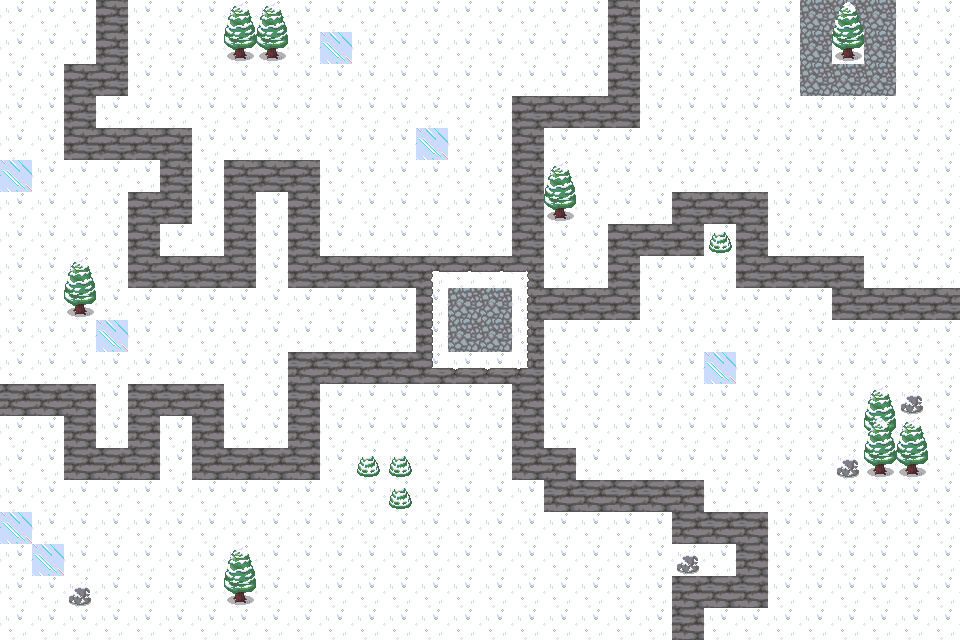
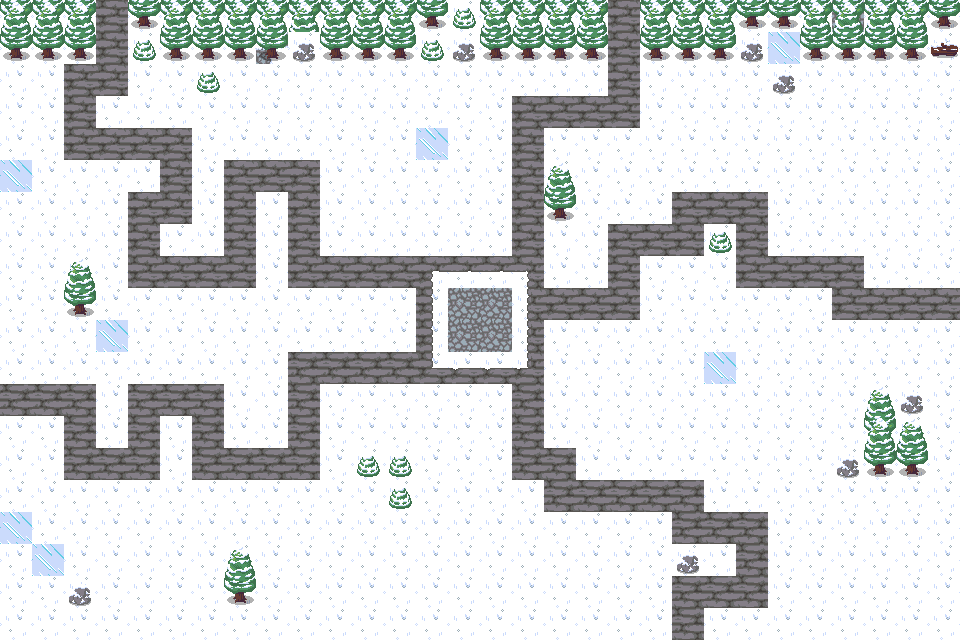
Adjusted health bar position and width relative to the scale. Adjusted map so that towers aren't cut off and changed map array to match new adjustments.

Changed region(s): [[0.0, 0.0, 1.0, 0.1562], [0.1875, 0.125, 0.25, 0.1562]]

diff --git a/Level/dist/levelMapProperties.dev.js b/Level/dist/levelMapProperties.dev.js
@@ -6,27 +6,234 @@ var levelOneGrid = {
   "tilePixelLength": 40,
   "tileBorderPixelWeight": 1,
   "mapArray": [[2, 2, 2, 2, 2, 2, 2, 2, 2, 2, 2, 2, 2, 2, 2], [1, 1, 1, 1, 1, 1, 1, 1, 1, 1, 1, 1, 1, 1, 1], [1, 2, 0, 0, 0, 0, 1, 1, 1, 1, 1, 1, 1, 1, 1], [1, 1, 0, 1, 1, 0, 1, 1, 1, 2, 1, 1, 2, 2, 2], [1, 1, 0, 1, 1, 0, 1, 1, 1, 0, 0, 0, 0, 0, 0], [0, 0, 0, 1, 1, 0, 1, 1, 1, 0, 1, 1, 2, 2, 2], [1, 1, 1, 1, 1, 0, 0, 0, 0, 0, 1, 1, 1, 1, 1], [1, 2, 1, 1, 1, 1, 1, 1, 1, 1, 1, 1, 1, 1, 1], [1, 1, 1, 1, 1, 1, 1, 1, 1, 1, 1, 1, 1, 1, 1], [2, 2, 2, 1, 1, 1, 2, 2, 2, 1, 1, 1, 2, 2, 1]],
-  "startTile": {
+  "startTiles": [{
     "row": 5,
-    "column": 0
-  },
-  "startDirection": "right",
-  "destinationTile": {
+    "column": 0,
+    "direction": ["right"]
+  }],
+  "destinationTiles": {
     "row": 4,
     "column": 14
   },
-  "tileTurns": [[5, 2], [2, 2], [2, 5], [6, 5], [6, 9], [4, 9]]
+  "tileTurns": [{
+    "row": 5,
+    "column": 2,
+    "directions": ["up"]
+  }, {
+    "row": 2,
+    "column": 2,
+    "directions": ["right"]
+  }, {
+    "row": 2,
+    "column": 5,
+    "directions": ["down"]
+  }, {
+    "row": 6,
+    "column": 5,
+    "directions": ["right"]
+  }, {
+    "row": 6,
+    "column": 9,
+    "directions": ["up"]
+  }, {
+    "row": 4,
+    "column": 9,
+    "directions": ["right"]
+  }]
 }; // snow map
 
-levelTwoGrid = {
+var levelTwoGrid = {
   "tileRows": 20,
   "tileColumns": 30,
-  "tilePixelLength": 30,
+  "tilePixelLength": 32,
   "tileBorderPixelWeight": 1,
-  "mapArray": [[0, 0, 0, 1, 0, 0, 0, 2, 2, 0, 0, 0, 0, 0, 0, 0, 0, 0, 0, 1, 0, 0, 0, 0, 0, 2, 2, 2, 0, 0], [0, 0, 0, 1, 0, 0, 0, 2, 2, 0, 2, 0, 0, 0, 0, 0, 0, 0, 0, 1, 0, 0, 0, 0, 0, 2, 2, 2, 0, 0], [0, 0, 1, 1, 0, 0, 0, 0, 0, 0, 0, 0, 0, 0, 0, 0, 0, 0, 0, 1, 0, 0, 0, 0, 0, 2, 2, 2, 0, 0], [0, 0, 1, 0, 0, 0, 0, 0, 0, 0, 0, 0, 0, 0, 0, 0, 1, 1, 1, 1, 0, 0, 0, 0, 0, 0, 0, 0, 0, 0], [0, 0, 1, 1, 1, 1, 0, 0, 0, 0, 0, 0, 0, 2, 0, 0, 1, 0, 0, 0, 0, 0, 0, 0, 0, 0, 0, 0, 0, 0], [2, 0, 0, 0, 0, 1, 0, 1, 1, 1, 0, 0, 0, 0, 0, 0, 1, 2, 0, 0, 0, 0, 0, 0, 0, 0, 0, 0, 0, 0], [0, 0, 0, 0, 1, 1, 0, 1, 0, 1, 0, 0, 0, 0, 0, 0, 1, 2, 0, 0, 0, 1, 1, 1, 0, 0, 0, 0, 0, 0], [0, 0, 0, 0, 1, 0, 0, 1, 0, 1, 0, 0, 0, 0, 0, 0, 1, 0, 0, 1, 1, 1, 2, 1, 0, 0, 0, 0, 0, 0], [0, 0, 2, 0, 1, 1, 1, 1, 0, 1, 1, 1, 1, 1, 1, 1, 1, 0, 0, 1, 0, 0, 0, 1, 1, 1, 1, 0, 0, 0], [0, 0, 2, 0, 0, 0, 0, 0, 0, 0, 0, 0, 0, 1, 1, 1, 1, 1, 1, 1, 0, 0, 0, 0, 0, 0, 1, 1, 1, 1], [0, 0, 0, 2, 0, 0, 0, 0, 0, 0, 0, 0, 0, 1, 1, 1, 1, 0, 0, 0, 0, 0, 0, 0, 0, 0, 0, 0, 0, 0], [0, 0, 0, 0, 0, 0, 0, 0, 0, 1, 1, 1, 1, 1, 1, 1, 1, 0, 0, 0, 0, 0, 2, 0, 0, 0, 0, 0, 0, 0], [1, 1, 1, 0, 1, 1, 1, 0, 0, 1, 0, 0, 0, 0, 0, 0, 1, 0, 0, 0, 0, 0, 0, 0, 0, 0, 0, 2, 2, 0], [0, 0, 1, 0, 1, 0, 1, 0, 0, 1, 0, 0, 0, 0, 0, 0, 1, 0, 0, 0, 0, 0, 0, 0, 0, 0, 0, 2, 2, 0], [0, 0, 1, 1, 1, 0, 1, 1, 1, 1, 0, 2, 2, 0, 0, 0, 1, 1, 0, 0, 0, 0, 0, 0, 0, 0, 2, 2, 2, 0], [0, 0, 0, 0, 0, 0, 0, 0, 0, 0, 0, 0, 2, 0, 0, 0, 0, 1, 1, 1, 1, 1, 0, 0, 0, 0, 0, 0, 0, 0], [2, 0, 0, 0, 0, 0, 0, 0, 0, 0, 0, 0, 0, 0, 0, 0, 0, 0, 0, 0, 0, 1, 1, 1, 0, 0, 0, 0, 0, 0], [0, 2, 0, 0, 0, 0, 0, 2, 0, 0, 0, 0, 0, 0, 0, 0, 0, 0, 0, 0, 0, 2, 0, 1, 0, 0, 0, 0, 0, 0], [0, 0, 2, 0, 0, 0, 0, 2, 0, 0, 0, 0, 0, 0, 0, 0, 0, 0, 0, 0, 0, 1, 1, 1, 0, 0, 0, 0, 0, 0], [0, 0, 0, 0, 0, 0, 0, 0, 0, 0, 0, 0, 0, 0, 0, 0, 0, 0, 0, 0, 0, 1, 0, 0, 0, 0, 0, 0, 0, 0]]
+  "mapArray": [[2, 2, 2, 0, 2, 2, 2, 2, 2, 2, 2, 2, 2, 2, 2, 2, 2, 2, 2, 0, 2, 2, 2, 2, 2, 2, 2, 2, 2, 2], [2, 2, 2, 0, 2, 2, 2, 2, 2, 2, 2, 2, 2, 2, 2, 2, 2, 2, 2, 0, 2, 2, 2, 2, 2, 2, 2, 2, 2, 2], [1, 1, 0, 0, 1, 1, 2, 1, 1, 1, 1, 1, 1, 1, 1, 1, 1, 1, 1, 0, 1, 1, 1, 1, 2, 1, 1, 1, 1, 1], [1, 1, 0, 1, 1, 1, 1, 1, 1, 1, 1, 1, 1, 1, 1, 1, 0, 0, 0, 0, 1, 1, 1, 1, 1, 1, 1, 1, 1, 1], [1, 1, 0, 0, 0, 0, 1, 1, 1, 1, 1, 1, 1, 2, 1, 1, 0, 1, 1, 1, 1, 1, 1, 1, 1, 1, 1, 1, 1, 1], [2, 1, 1, 1, 1, 0, 1, 0, 0, 0, 1, 1, 1, 1, 1, 1, 0, 2, 1, 1, 1, 1, 1, 1, 1, 1, 1, 1, 1, 1], [1, 1, 1, 1, 0, 0, 1, 0, 1, 0, 1, 1, 1, 1, 1, 1, 0, 2, 1, 1, 1, 0, 0, 0, 1, 1, 1, 1, 1, 1], [1, 1, 1, 1, 0, 1, 1, 0, 1, 0, 1, 1, 1, 1, 1, 1, 0, 1, 1, 0, 0, 0, 2, 0, 1, 1, 1, 1, 1, 1], [1, 1, 2, 1, 0, 0, 0, 0, 1, 0, 0, 0, 0, 0, 0, 0, 0, 1, 1, 0, 1, 1, 1, 0, 0, 0, 0, 1, 1, 1], [1, 1, 2, 1, 1, 1, 1, 1, 1, 1, 1, 1, 1, 0, 0, 0, 0, 0, 0, 0, 1, 1, 1, 1, 1, 1, 0, 0, 0, 0], [1, 1, 1, 2, 1, 1, 1, 1, 1, 1, 1, 1, 1, 0, 0, 0, 0, 1, 1, 1, 1, 1, 1, 1, 1, 1, 1, 1, 1, 1], [1, 1, 1, 1, 1, 1, 1, 1, 1, 0, 0, 0, 0, 0, 0, 0, 0, 1, 1, 1, 1, 1, 2, 1, 1, 1, 1, 1, 1, 1], [0, 0, 0, 1, 0, 0, 0, 1, 1, 0, 1, 1, 1, 1, 1, 1, 0, 1, 1, 1, 1, 1, 1, 1, 1, 1, 1, 2, 2, 1], [1, 1, 0, 1, 0, 1, 0, 1, 1, 0, 1, 1, 1, 1, 1, 1, 0, 1, 1, 1, 1, 1, 1, 1, 1, 1, 1, 2, 2, 1], [1, 1, 0, 0, 0, 1, 0, 0, 0, 0, 1, 2, 2, 1, 1, 1, 0, 0, 1, 1, 1, 1, 1, 1, 1, 1, 2, 2, 2, 1], [1, 1, 1, 1, 1, 1, 1, 1, 1, 1, 1, 1, 2, 1, 1, 1, 1, 0, 0, 0, 0, 0, 1, 1, 1, 1, 1, 1, 1, 1], [2, 1, 1, 1, 1, 1, 1, 1, 1, 1, 1, 1, 1, 1, 1, 1, 1, 1, 1, 1, 1, 0, 0, 0, 1, 1, 1, 1, 1, 1], [1, 2, 1, 1, 1, 1, 1, 2, 1, 1, 1, 1, 1, 1, 1, 1, 1, 1, 1, 1, 1, 2, 1, 0, 1, 1, 1, 1, 1, 1], [1, 1, 2, 1, 1, 1, 1, 2, 1, 1, 1, 1, 1, 1, 1, 1, 1, 1, 1, 1, 1, 0, 0, 0, 1, 1, 1, 1, 1, 1], [1, 1, 1, 1, 1, 1, 1, 1, 1, 1, 1, 1, 1, 1, 1, 1, 1, 1, 1, 1, 1, 0, 1, 1, 1, 1, 1, 1, 1, 1]],
+  "startTiles": [// Top Edge of Map
+  {
+    "row": 0,
+    "column": 3,
+    "direction": ["down"]
+  }, {
+    "row": 0,
+    "column": 20,
+    "direction": ["down"]
+  }, // Right Edge of Map
+  {
+    "row": 9,
+    "column": 29,
+    "direction": ["left"]
+  }, // Left Edge of Map
+  {
+    "row": 12,
+    "column": 0,
+    "direction": ["right"]
+  }, // Bottom Edge of Map
+  {
+    "row": 19,
+    "column": 21,
+    "direction": ["up"]
+  }],
+  "destinationTiles": {
+    "row": 9.5,
+    "column": 15.5
+  },
+  "tileTurns": [// Starting from Beginning of Diagonally Left-Up Path
+  {
+    "row": 2,
+    "column": 3,
+    "directions": ["left"]
+  }, {
+    "row": 2,
+    "column": 2,
+    "directions": ["down"]
+  }, {
+    "row": 4,
+    "column": 2,
+    "directions": ["right"]
+  }, {
+    "row": 4,
+    "column": 5,
+    "directions": ["down"]
+  }, {
+    "row": 6,
+    "column": 5,
+    "directions": ["left"]
+  }, {
+    "row": 6,
+    "column": 4,
+    "directions": ["down"]
+  }, {
+    "row": 8,
+    "column": 4,
+    "directions": ["right"]
+  }, {
+    "row": 8,
+    "column": 7,
+    "directions": ["up"]
+  }, {
+    "row": 5,
+    "column": 7,
+    "directions": ["right"]
+  }, {
+    "row": 5,
+    "column": 9,
+    "directions": ["down"]
+  }, {
+    "row": 8,
+    "column": 9,
+    "directions": ["right"]
+  }, // Starting from Beginning of Up Path
+  {
+    "row": 3,
+    "column": 19,
+    "directions": ["left"]
+  }, {
+    "row": 3,
+    "column": 16,
+    "directions": ["down"]
+  }, // Starting from Beginning of Right Path
+  {
+    "row": 9,
+    "column": 26,
+    "directions": ["up"]
+  }, {
+    "row": 8,
+    "column": 26,
+    "directions": ["left"]
+  }, {
+    "row": 8,
+    "column": 23,
+    "directions": ["up"]
+  }, {
+    "row": 6,
+    "column": 23,
+    "directions": ["left"]
+  }, {
+    "row": 6,
+    "column": 21,
+    "directions": ["down"]
+  }, {
+    "row": 7,
+    "column": 21,
+    "directions": ["left"]
+  }, {
+    "row": 7,
+    "column": 19,
+    "directions": ["down"]
+  }, {
+    "row": 9,
+    "column": 19,
+    "directions": ["left"]
+  }, // Starting from Beginning of Diagonally Right-Down Path
+  {
+    "row": 18,
+    "column": 21,
+    "directions": ["right"]
+  }, {
+    "row": 18,
+    "column": 23,
+    "directions": ["up"]
+  }, {
+    "row": 16,
+    "column": 23,
+    "directions": ["left"]
+  }, {
+    "row": 16,
+    "column": 21,
+    "directions": ["up"]
+  }, {
+    "row": 15,
+    "column": 21,
+    "directions": ["left"]
+  }, {
+    "row": 15,
+    "column": 17,
+    "directions": ["up"]
+  }, {
+    "row": 14,
+    "column": 17,
+    "directions": ["left"]
+  }, {
+    "row": 14,
+    "column": 16,
+    "directions": ["up"]
+  }, // Starting from Beginning of Left Path
+  {
+    "row": 12,
+    "column": 2,
+    "directions": ["down"]
+  }, {
+    "row": 14,
+    "column": 2,
+    "directions": ["right"]
+  }, {
+    "row": 14,
+    "column": 4,
+    "directions": ["up"]
+  }, {
+    "row": 12,
+    "column": 4,
+    "directions": ["right"]
+  }, {
+    "row": 12,
+    "column": 6,
+    "directions": ["down"]
+  }, {
+    "row": 14,
+    "column": 6,
+    "directions": ["right"]
+  }, {
+    "row": 14,
+    "column": 9,
+    "directions": ["up"]
+  }, {
+    "row": 11,
+    "column": 9,
+    "directions": ["right"]
+  }]
 }; // desert map
 
-levelThreeGrid = {
+var levelThreeGrid = {
   "tileRows": 20,
   "tileColumns": 30,
   "tilePixelLength": 30,

diff --git a/Level/levelMapProperties.js b/Level/levelMapProperties.js
@@ -47,9 +47,9 @@ var levelTwoGrid = {
 	"tileBorderPixelWeight": 1,
 	
 	"mapArray": [
-		[1, 1, 1, 0, 1, 1, 1, 2, 2, 1, 1, 1, 1, 1, 1, 1, 1, 1, 1, 0, 1, 1, 1, 1, 1, 2, 2, 2, 1, 1],
-		[1, 1, 1, 0, 1, 1, 1, 2, 2, 1, 2, 1, 1, 1, 1, 1, 1, 1, 1, 0, 1, 1, 1, 1, 1, 2, 2, 2, 1, 1],
-		[1, 1, 0, 0, 1, 1, 1, 1, 1, 1, 1, 1, 1, 1, 1, 1, 1, 1, 1, 0, 1, 1, 1, 1, 1, 2, 2, 2, 1, 1],
+		[2, 2, 2, 0, 2, 2, 2, 2, 2, 2, 2, 2, 2, 2, 2, 2, 2, 2, 2, 0, 2, 2, 2, 2, 2, 2, 2, 2, 2, 2],
+		[2, 2, 2, 0, 2, 2, 2, 2, 2, 2, 2, 2, 2, 2, 2, 2, 2, 2, 2, 0, 2, 2, 2, 2, 2, 2, 2, 2, 2, 2],
+		[1, 1, 0, 0, 1, 1, 2, 1, 1, 1, 1, 1, 1, 1, 1, 1, 1, 1, 1, 0, 1, 1, 1, 1, 2, 1, 1, 1, 1, 1],
 		[1, 1, 0, 1, 1, 1, 1, 1, 1, 1, 1, 1, 1, 1, 1, 1, 0, 0, 0, 0, 1, 1, 1, 1, 1, 1, 1, 1, 1, 1],
 		[1, 1, 0, 0, 0, 0, 1, 1, 1, 1, 1, 1, 1, 2, 1, 1, 0, 1, 1, 1, 1, 1, 1, 1, 1, 1, 1, 1, 1, 1],
 		[2, 1, 1, 1, 1, 0, 1, 0, 0, 0, 1, 1, 1, 1, 1, 1, 0, 2, 1, 1, 1, 1, 1, 1, 1, 1, 1, 1, 1, 1],

diff --git a/Towers/dist/tower.dev.js b/Towers/dist/tower.dev.js
@@ -190,7 +190,7 @@ function () {
       this.drawTileHighlight(context); //    this.showBoundingCircle(context);
 
       var width = this.scale > 2 ? 100 : 50;
-      this.drawHealth(context, this.x, this.y - this.yOffset - 30, this.HP, width, 10);
+      this.drawHealth(context, this.x, this.y - this.yOffset - 7 * this.scale, this.HP, width, 10);
       var speedMultiplier = this.towerSpeedMultipler;
 
       if (this.towerPaused) {
@@ -206,7 +206,7 @@ function () {
       var percentage = width * (HP / this.maxHP);
       var healthPercent = HP / this.maxHP * 100;
       ctx.beginPath();
-      ctx.rect(x - width / 2, y * 1.05, percentage, thickness);
+      ctx.rect(x - width / 2, y, percentage, thickness);
 
       if (healthPercent > 63) {
         ctx.fillStyle = "green";

diff --git a/Towers/tower.js b/Towers/tower.js
@@ -179,7 +179,7 @@ class Tower {
     this.drawHealth(
       context,
       this.x,
-      this.y - this.yOffset - 30,
+      this.y - this.yOffset - 7 * this.scale,
       this.HP,
       width,
       10
@@ -205,7 +205,7 @@ class Tower {
     var percentage = width * (HP / this.maxHP);
     var healthPercent = HP/this.maxHP * 100;
     ctx.beginPath();
-    ctx.rect(x - width /2 , y*1.05, percentage, thickness);
+    ctx.rect(x - width /2 , y, percentage, thickness);
     if (healthPercent > 63) {
       ctx.fillStyle = "green";
     } else if (healthPercent > 37) {
